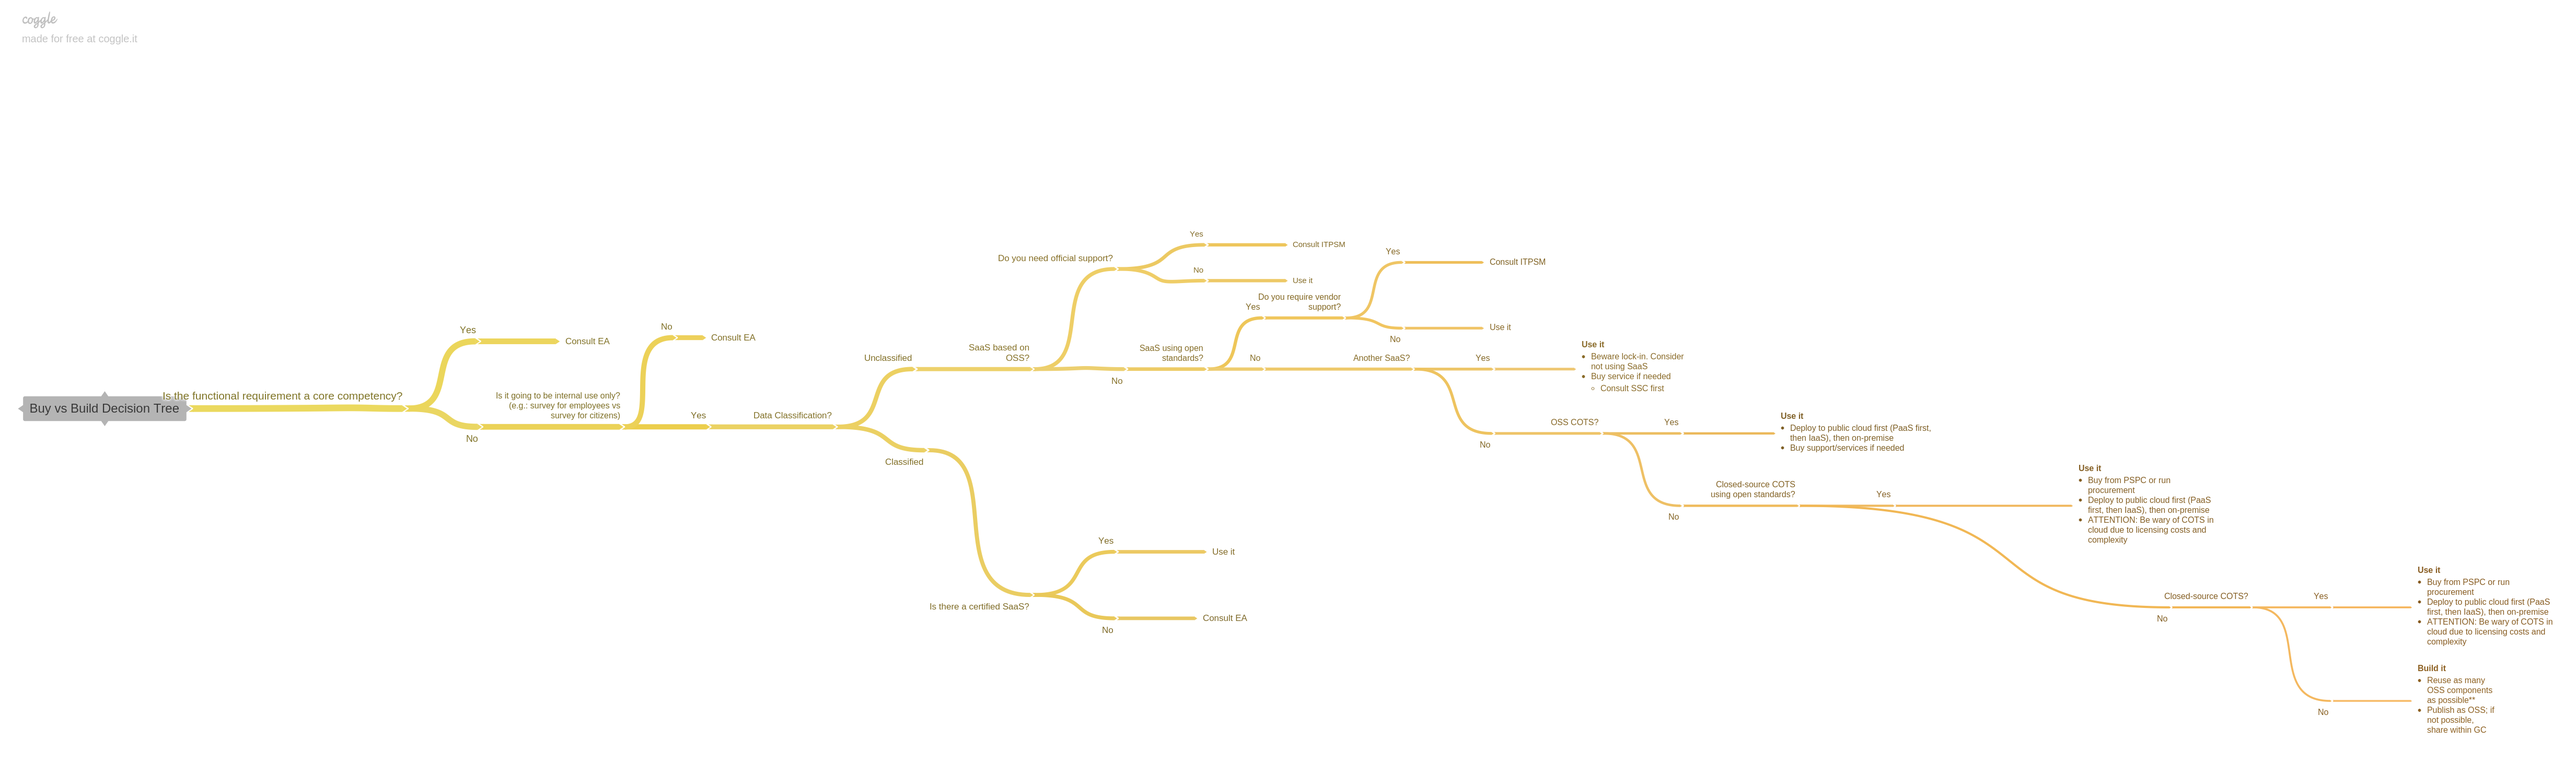
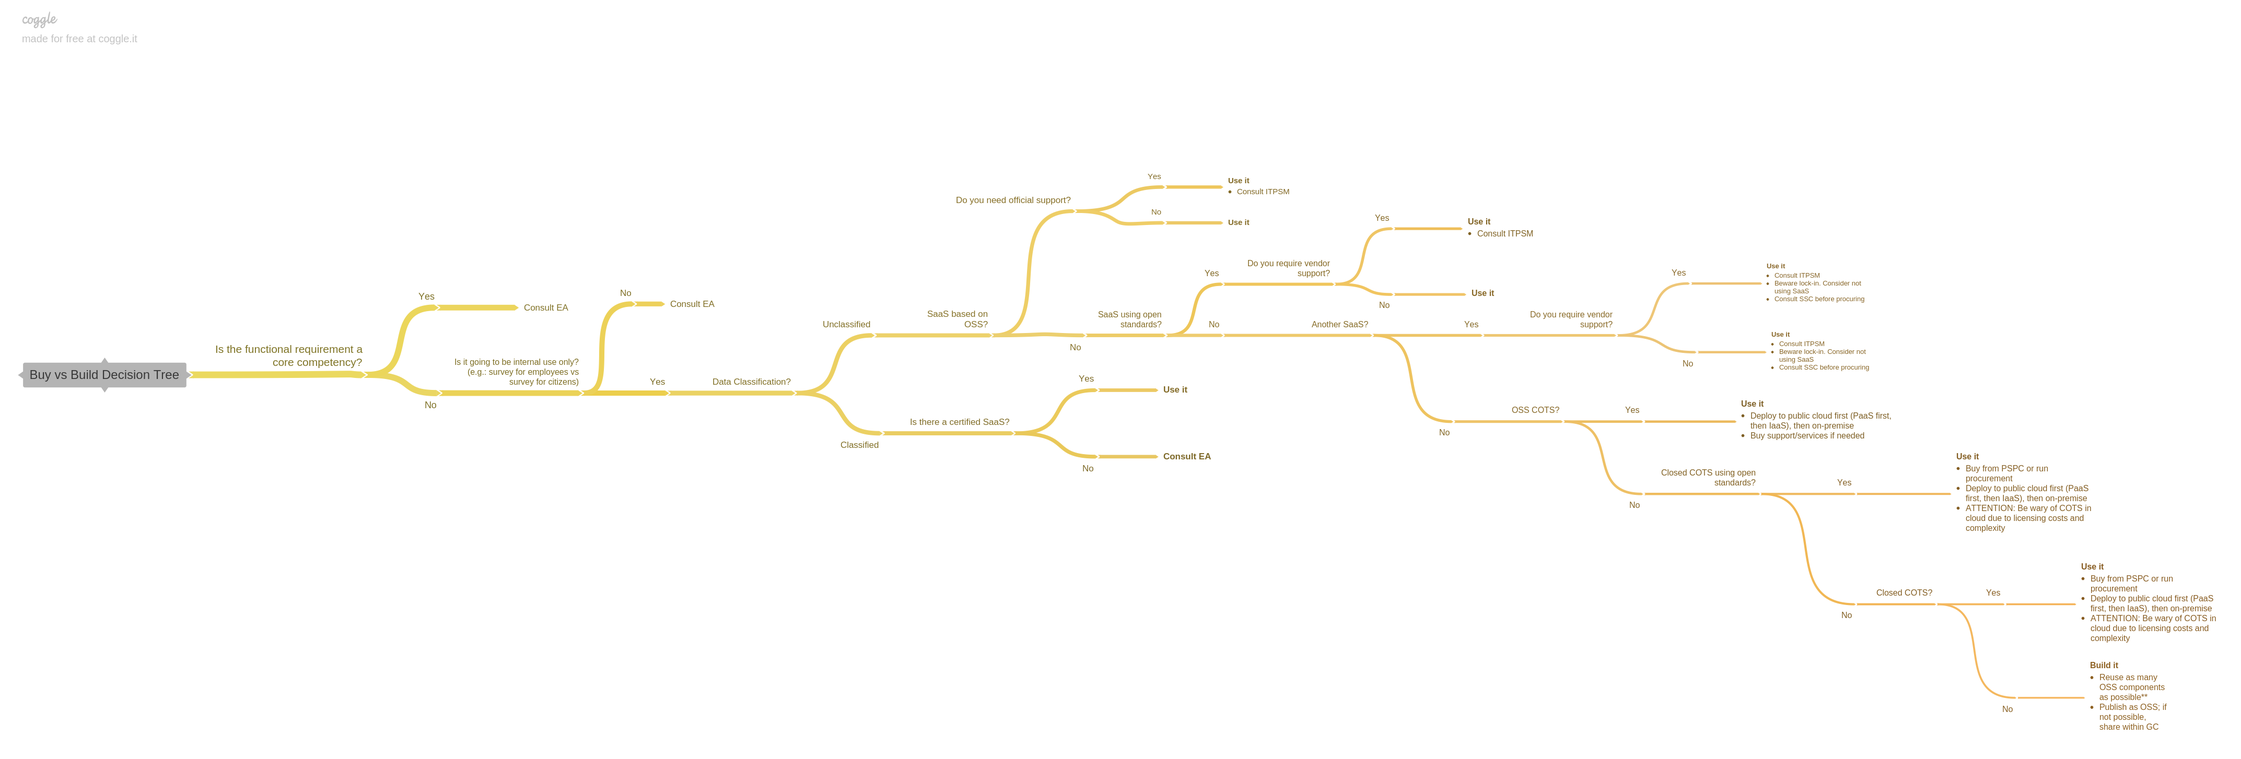
Updates from brainstorm

diff --git a/_pages/en/buy-vs-build-strat.md b/_pages/en/buy-vs-build-strat.md
@@ -17,62 +17,64 @@ permalink: /buy-vs-build-start.html
 
 #### (Adopt) SaaS based on
 
-##### 1.1 OSS using open standards
-
-##### 1.2 OSS
-
-##### 1.3 OSS + COTS using open standards
-
-##### 1.4 OSS + COTS - (be aware of lock-in)
-
-##### 1.5 COTS using open standards - (be aware of lock-in)
-
-##### 1.6 COTS - (be aware of lock-in)
+1. OSS using open standards
+1. OSS
+1. OSS + Closed COTS using open standards
+1. OSS + Closed COTS - (be aware of lock-in)
+1. Closed COTS using open standards - (be aware of lock-in)
+1. Closed COTS - (be aware of lock-in)
 
 #### (Buy/Adopt) Solutions deployed on XaaS or on premise
 
-##### 1.1 OSS using open standards
-
-##### 1.2 OSS
-
-##### 1.3 OSS + COTS using open standards
-
-##### 1.4 OSS + COTS - (be aware of lock-in)
-
-##### 1.5 COTS using open standards - (be aware of lock-in)
-
-##### 1.6 COTS - (be aware of lock-in)
+1. OSS using open standards
+1. OSS
+1. OSS + Closed COTS using open standards
+1. OSS + Closed COTS - (be aware of lock-in)
+1. Closed COTS using open standards - (be aware of lock-in)
+1. Closed COTS - (be aware of lock-in)
 
 #### (Build/Adopt) Custom solutions
 
-##### 1.1 Using OSS and open standards
+1. OSS using open standards
+1. OSS
+1. OSS + Closed COTS using open standards
+1. OSS + Closed COTS - (be aware of lock-in)
+1. Closed COTS using open standards - (be aware of lock-in)
+1. Closed COTS - (be aware of lock-in)
+1. From scratch (tech stack must be OSS and use open standards...)
 
-##### 1.2 Using OSS
+### Use Case
 
-##### 1.3 Using OSS + COTS using open standards
+The above chart should be adhered to in both the initial **architectural** decision-making and subsequent **application architecture** process.
 
-##### 1.4 Using OSS + COTS
+#### Options Analysis process
 
-##### 1.5 Using COTS and open standards
+1. Determine requirements (Business + EA?)
+1. Following requirements, EA uses the model to build an initial list of options, with assistance from specialists (EA?):
+   - *Solution Architect* : Assess existing options for reuse
+   - *Application Developer*: Assess technical aspects of potential options
+   - *Security Analyst*: Assess security aspects of potential options
+1. For OSS options, determine if in-house and/or outsourced support is available (IITB Operations?)
+1. Calculate TCO (Total Cost of Ownership) of selected options (EA + Finance?)
+1. From the TCO analysis, decision is made on which component(s) will be bought and built (IITB Senior Management?)
+   - Application architects use again the above model to decide which tools to leverage in order to reduce rework and leverage existing solutions to expedite the development process
 
-##### 1.6 Using COTS - (be aware of lock-in)
-
-##### 1.7 From scratch (tech stack must be OSS and use open standards..)
+TODO: Add graphic explaining process
 
 ### Considerations
 
 #### COTS vs Building
 
-##### COTS
+##### Closed COTS
 
-It should be noted that COTS is not completely distinct from build if used as part of a greater system. For any complex system requiring numerous inter-dependent COTS this will require significant planning (such as patching and migrations) and configuration.
-While leveraging COTS offers 'quick wins' there is a high risk of vendor lock-in, and given the black box nature of the code base, potentially difficult and undesirable maintenance and sustainability problems in the future.
+It should be noted that COTS is not completely distinct from build if used as part of a greater system. For any complex system requiring numerous interdependent COTS, this will require significant planning (such as patching and migrations) and configuration.
+While leveraging well-know Closed COTS sometimes offers "quick wins" and perceived assurance, given the black box nature of the code base, there is a high risk of vendor lock-in and potentially difficult and undesirable maintenance and sustainability problems in the future.
 
-The use case for COTS outlined here is intended for individual, stand alone functionalities, that do not have critical and extensive dependencies on other systems.
+The recommended use case for Closed COTS is intended for individual, stand alone functionalities, that do not have critical and extensive dependencies on other systems.
 
 ##### Build
 
-It should be noted that build does not mean build from scratch. Projects should leverage existing open source solutions and leveraging existing available APIs to reduce re-work and assist in responding quickly to business needs.
+It should be noted that build does not mean build from scratch. Projects should leverage existing open source solutions and available APIs to reduce rework and assist in responding quickly to business needs.
 
 ### Purpose
 
@@ -80,22 +82,22 @@ This document is intended to provide clarity regarding how one should make decis
 It was written in order to promote the following ideals, in the following order of priority:
 
 1. Respond quickly to business needs
-2. Reduce re-work
+2. Reduce rework
 3. Promote future flexibility
 
 #### 1. Respond quickly to business needs
 
-Efforts should be made to reduce re-work while reducing vendor lock-in and promoting choices that provide flexibility in the future. If an existing solution exists then use it (where applicable).
+Efforts should be made to reduce rework while reducing vendor lock-in and promoting choices that provide flexibility in the future. If an existing solution exists, we should use it (where applicable).
 
-#### 2. Reduce re-work
+#### 2. Reduce rework
 
-Reducing re-work is second, as the outcome of reducing rework is to free up time to ensure the rapid delivery of services.
-Firstly, reducing re-work is realized both through the use of SaaS projects (provided there are no financial or security concerns) which frees resources from needing to solve problems that are already solved and freely available.
-Secondly, reducing re-work is realized through the use of selecting open source projects. If the business need being addressed becomes a critical function for the department, the organization may adopt the open source project that is already in use rather than developing one from scratch.
+Reducing rework is second, as the outcome of reducing rework is to free up time to ensure the rapid delivery of services.
+Firstly, reducing rework is realized both through the use of readily available SaaS solutions (provided there are no financial or security concerns), which frees resources from needing to solve problems that are already solved.
+Secondly, reducing rework is realized through the selection of open source projects. If the business need being addressed becomes a critical function for the department, the organization may adopt the open source project that is already in use rather than developing one from scratch.
 
 #### 3. Promote future flexibility
 
-Preference is given to open source solutions as they offer the benefits of SaaS (using existing solutions which benefit from the economies of public tools), while offering increased flexibility and control if the department opts to adopt said tool in the future. Further, the Government of Canada has the option to contribute to the project, thereby influencing the direction of said tool.
+Preference is given to open source solutions as they offer the benefits of SaaS (using existing solutions which benefit from the economies of public tools), while offering increased flexibility and control if the department opts to implement and support said tool in-house in the future. Further, the Government of Canada has the option to contribute to the project, thereby influencing the direction of the upstream project.
 
 ### Compliance Assurance
 
@@ -111,8 +113,8 @@ c. infrastructure as a service (IaaS)
 
 ## Terms
 
-OSS - Open Source Solutions/Software
-Open Standards - [TO-DO Definition required -- whose to use?]
+OSS: Open Source Software
+Open Standards: A publicly available set of specifications describing the characteristics of a hardware device or a software program
 
 ## Further Reading
 
